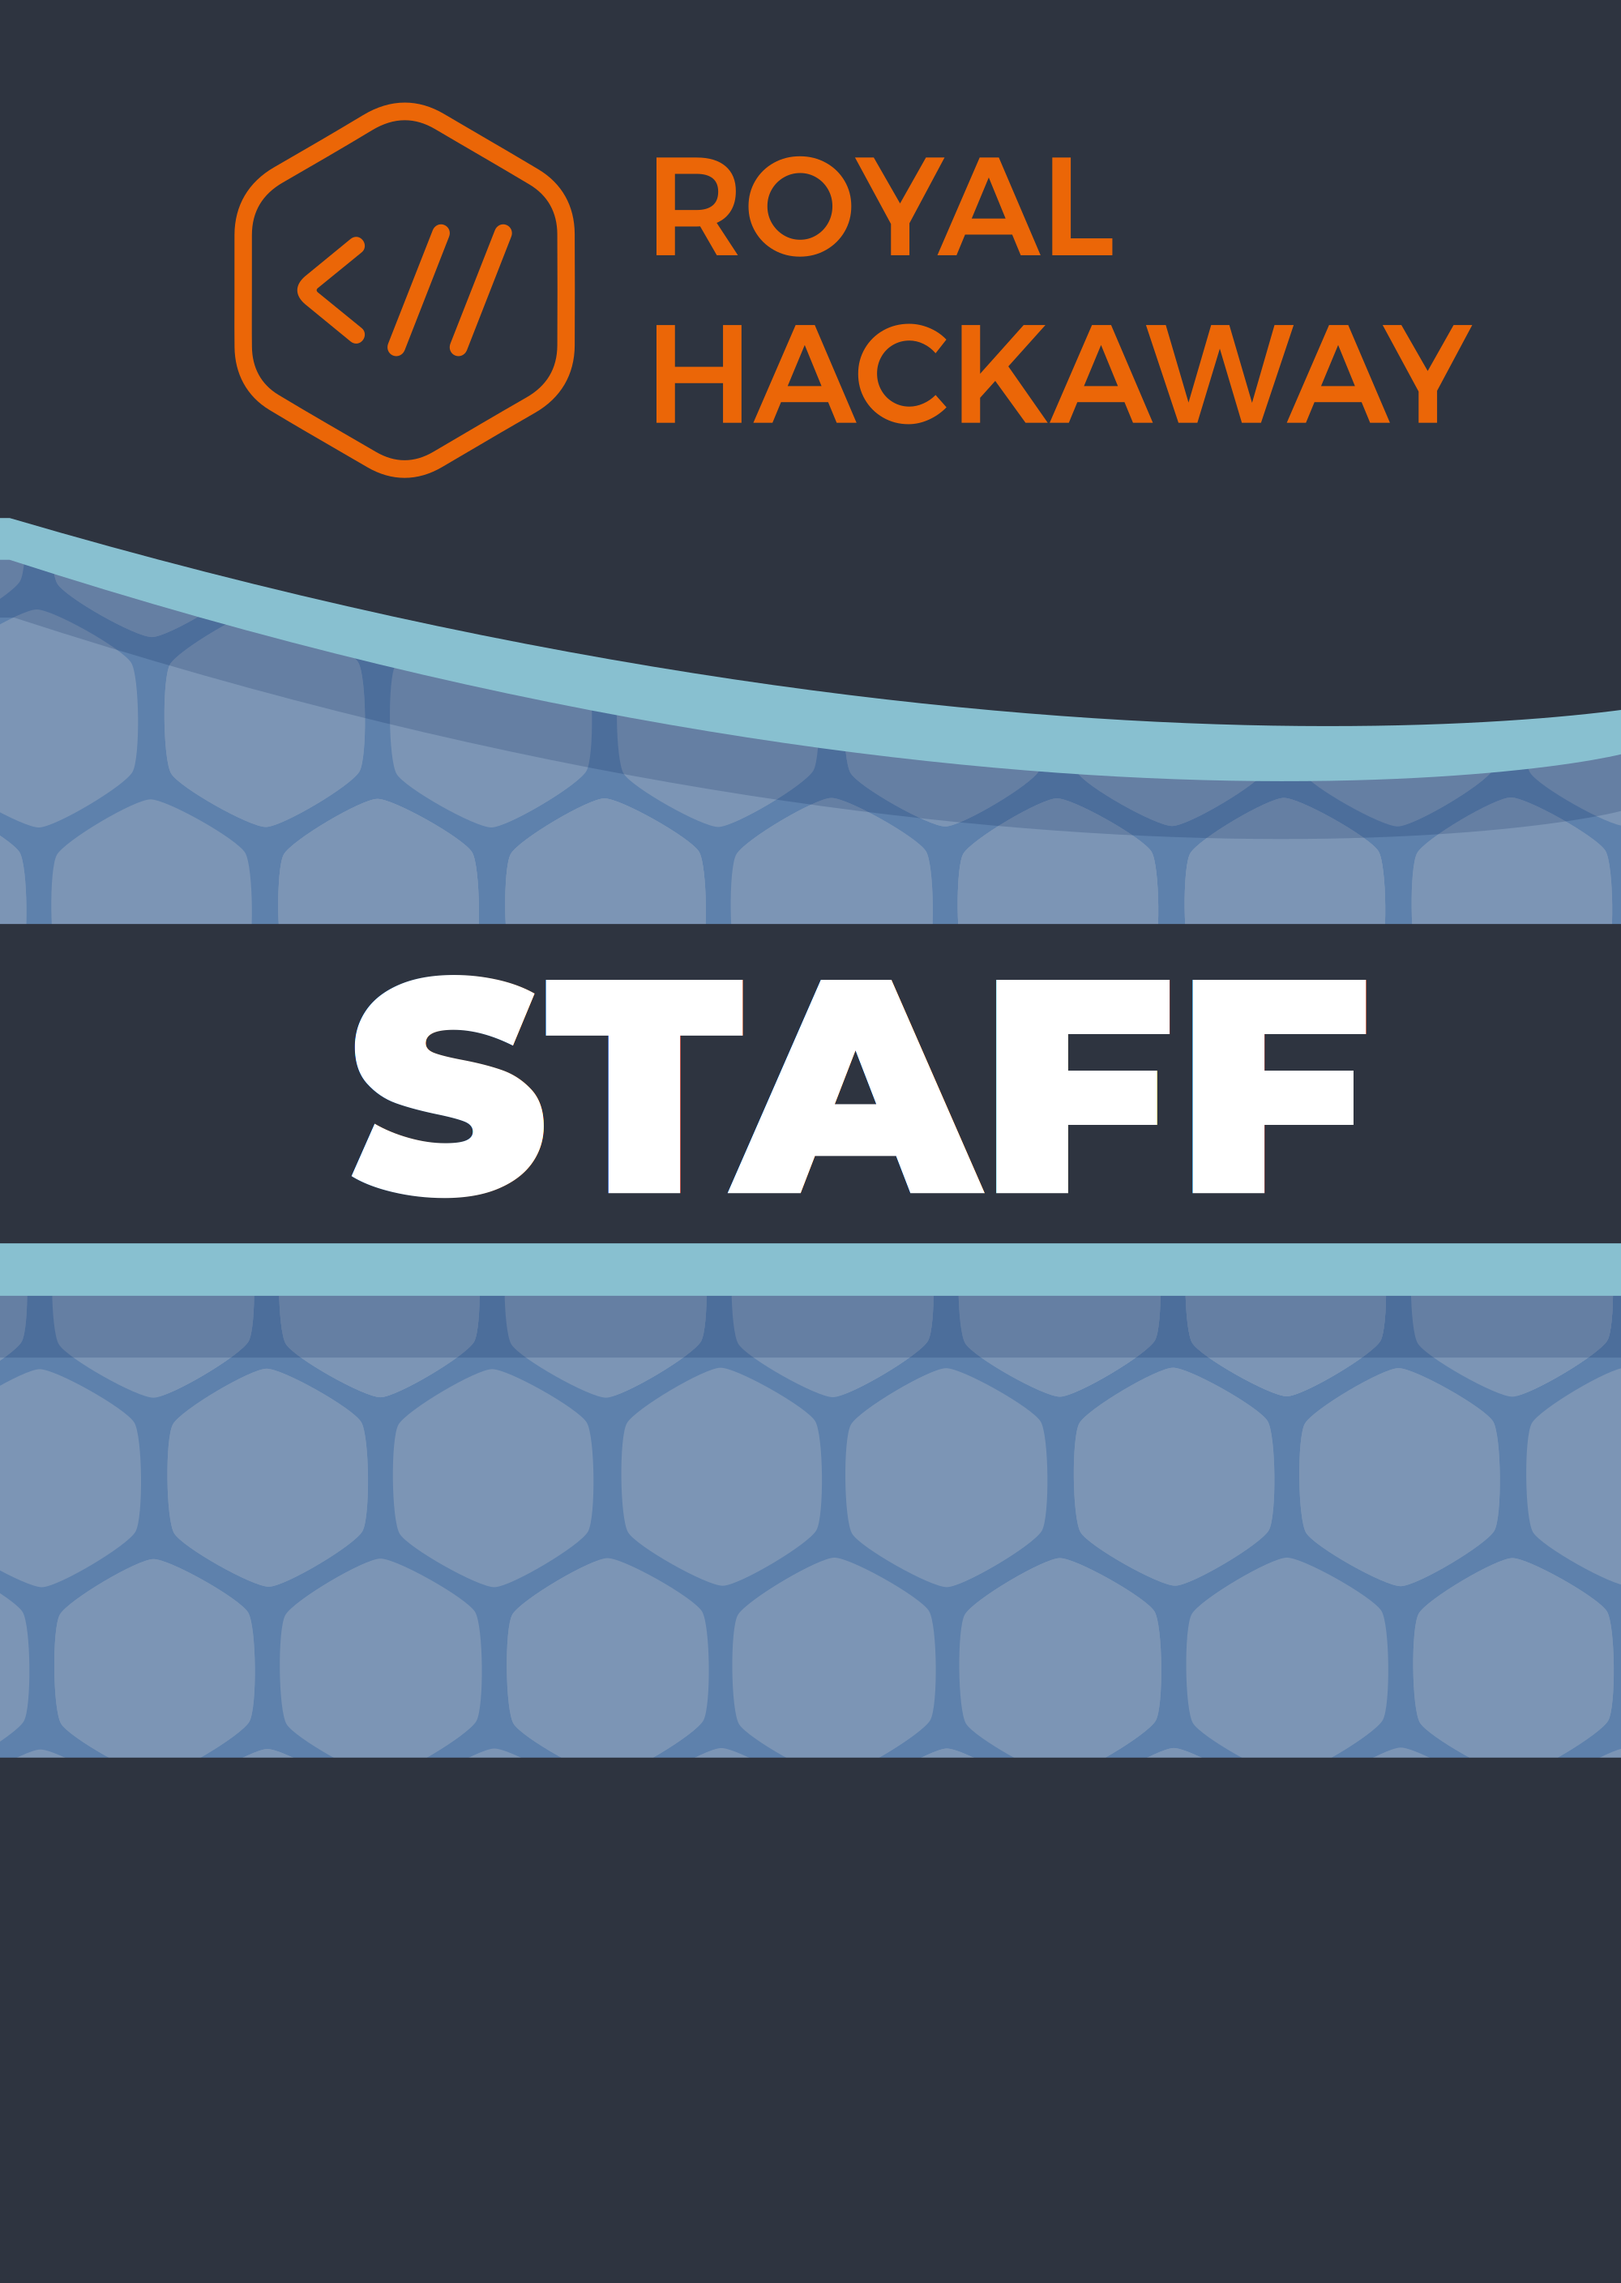
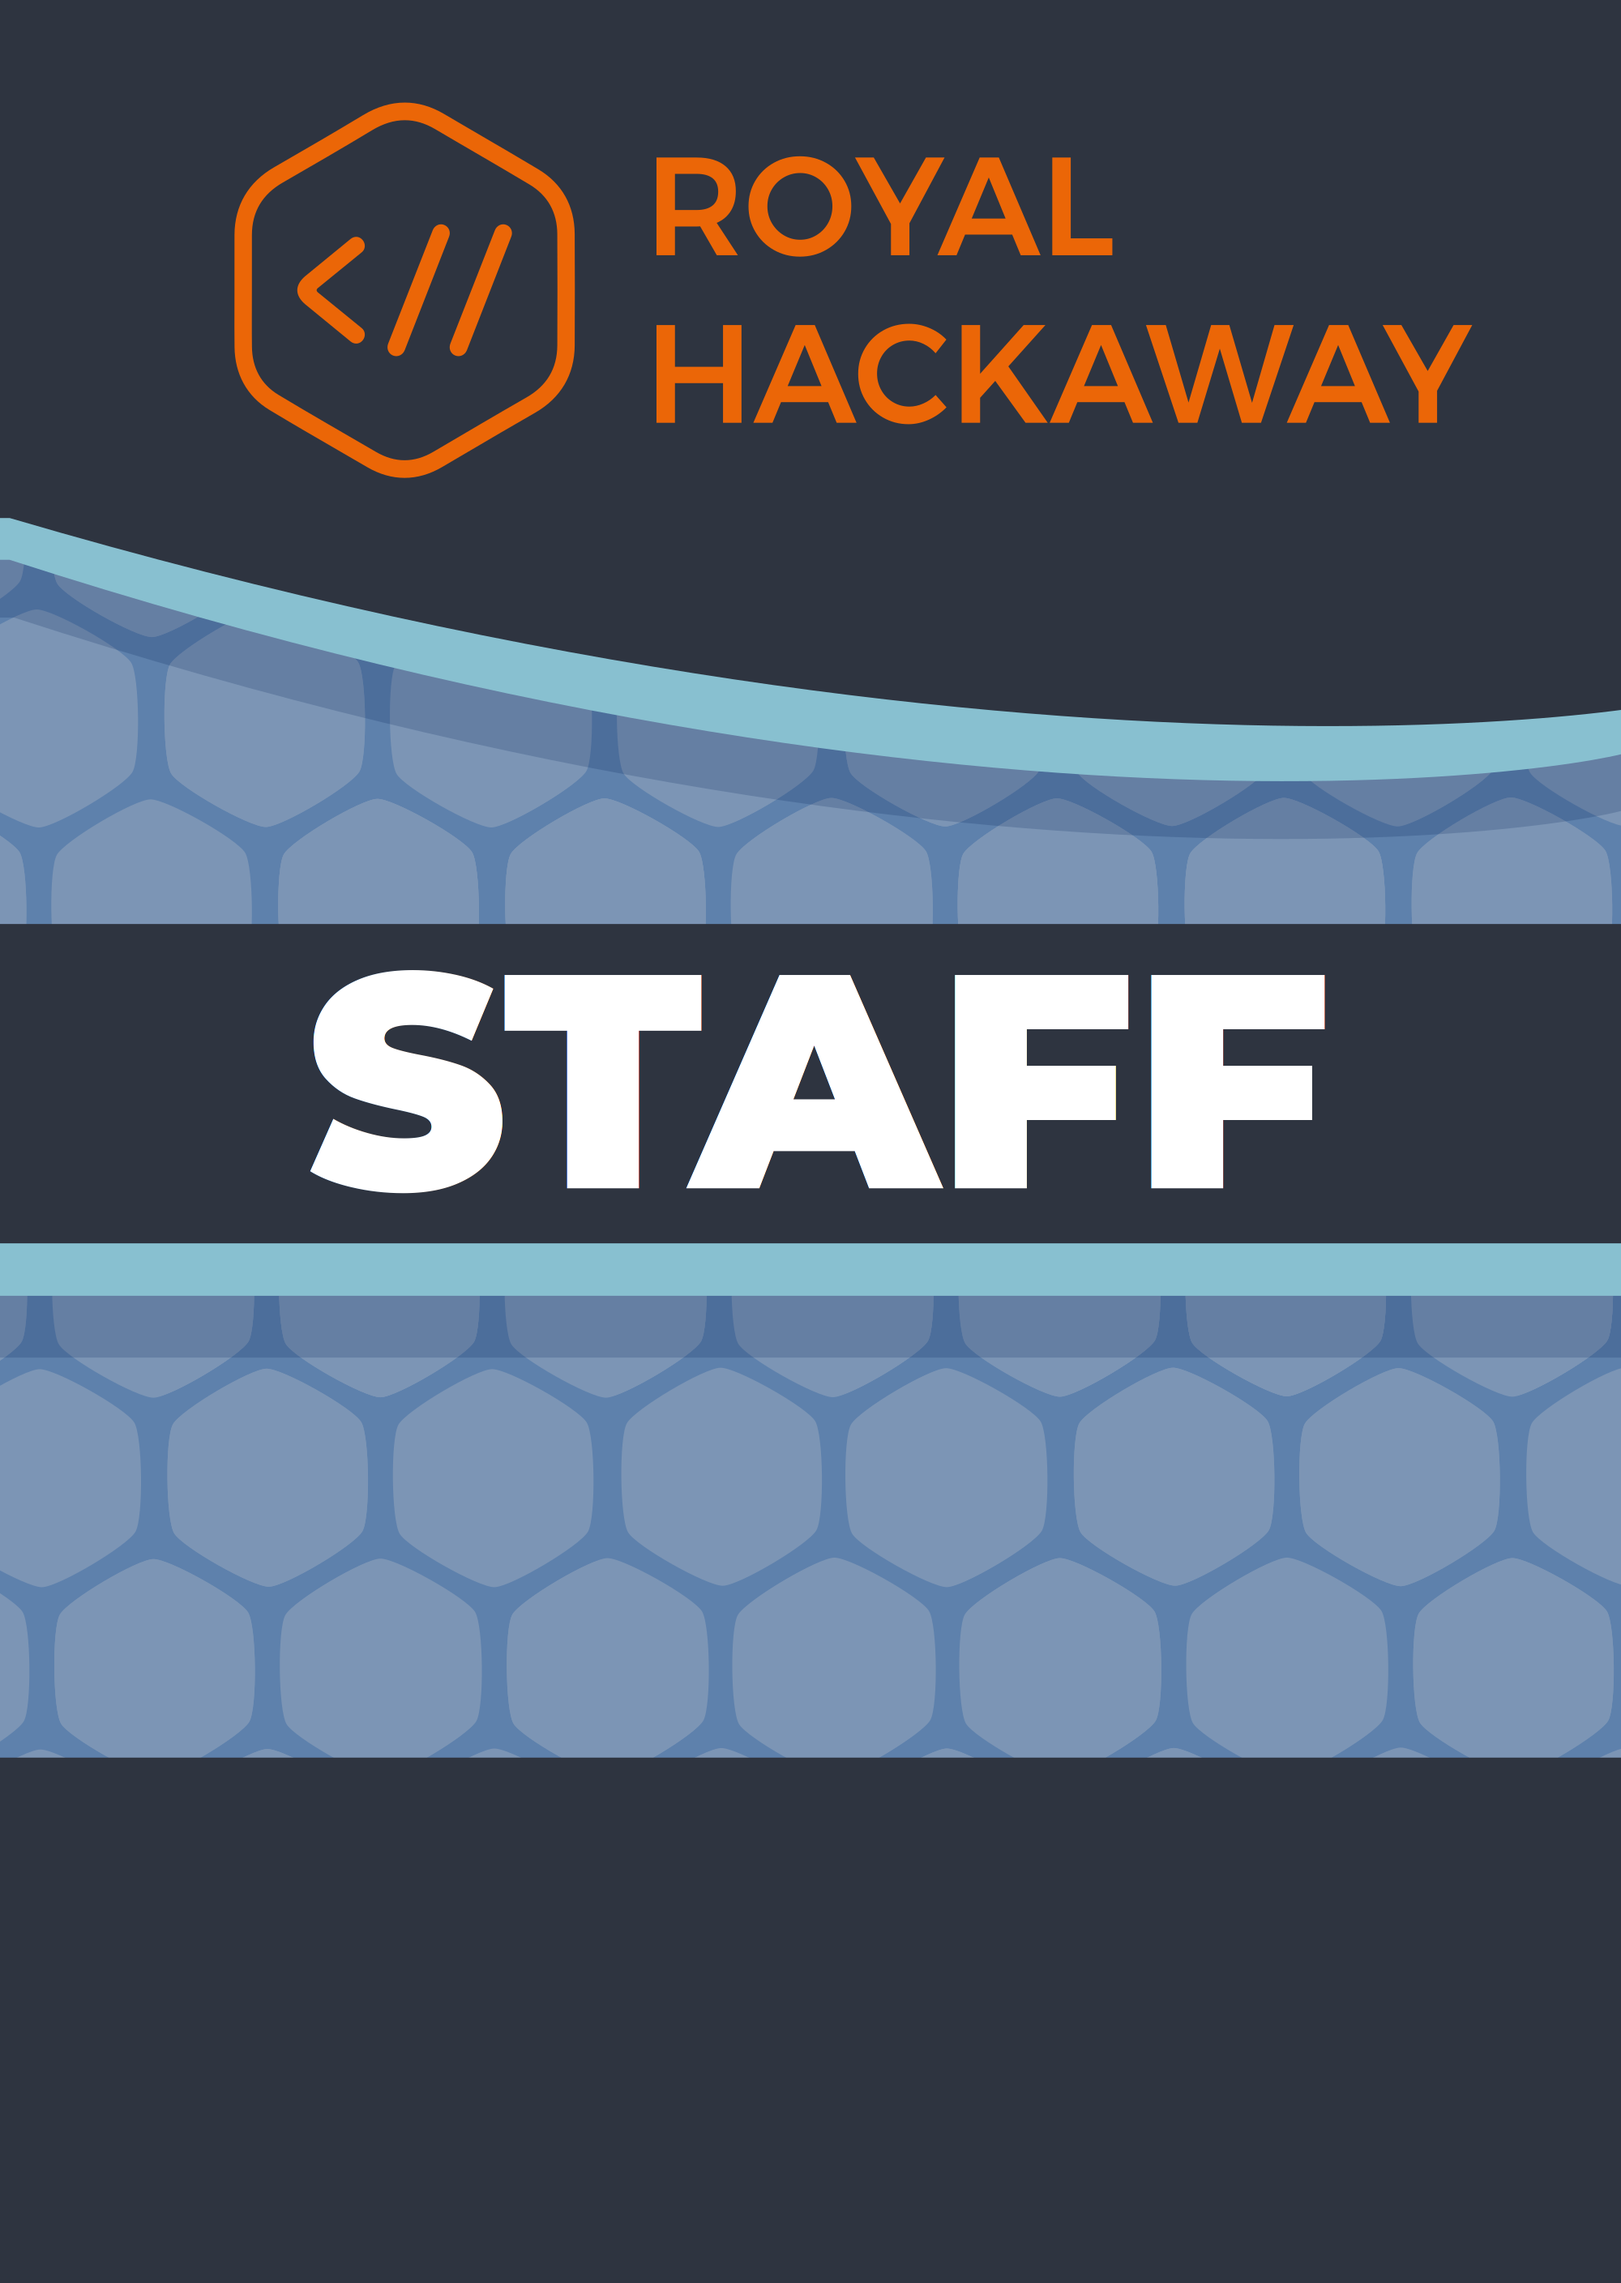
centre the text in the textbox

Changed region(s): [[0.186, 0.4061, 0.837, 0.5311]]

diff --git a/src/id_card_gen.cpp b/src/id_card_gen.cpp
@@ -19,6 +19,7 @@
 #define TEXT_SIZE_HEIGHT 300
 #define TEXT_SIZE_WIDTH TEXT_SIZE_HEIGHT / 2
 #define TEXT_Y 1600
+#define TEXT_Y_MAX 2170
 #define QR_Y 2170
 #define QR_BLOCK_WIDTH 15
 unsigned char __TEXT_COLOUR__[] = {0xFF, 0xFF, 0xFF};
@@ -173,8 +174,14 @@ void IdCard::printName()
 {
     std::string fname = stripAttendeeName(this->attendee.getForename()),
                 sname = stripAttendeeName(this->attendee.getSurname());
-    this->printText(fname, TEXT_Y);
-    this->printText(sname, TEXT_Y + TEXT_SIZE_HEIGHT);
+    int startY = (TEXT_Y_MAX - TEXT_Y - (TEXT_SIZE_HEIGHT * 2)) / 2;
+    if (sname == "") {
+        startY += TEXT_SIZE_HEIGHT / 2;
+    }
+    startY += TEXT_Y;
+    
+    this->printText(fname, startY);
+    this->printText(sname, startY + TEXT_SIZE_HEIGHT);
 }
 
 void IdCard::printText(std::string text, int yOffset)
@@ -265,7 +272,6 @@ std::string IdCard::stripAttendeeName(std::string str)
     // Bruh - just cut the name off here you know
     if (retOut.size() > MAX_NAME_LEN) {
         retOut = ret.substr(0, MAX_NAME_LEN - 3);
-        retOut += "...";
     }
     
     return retOut;
